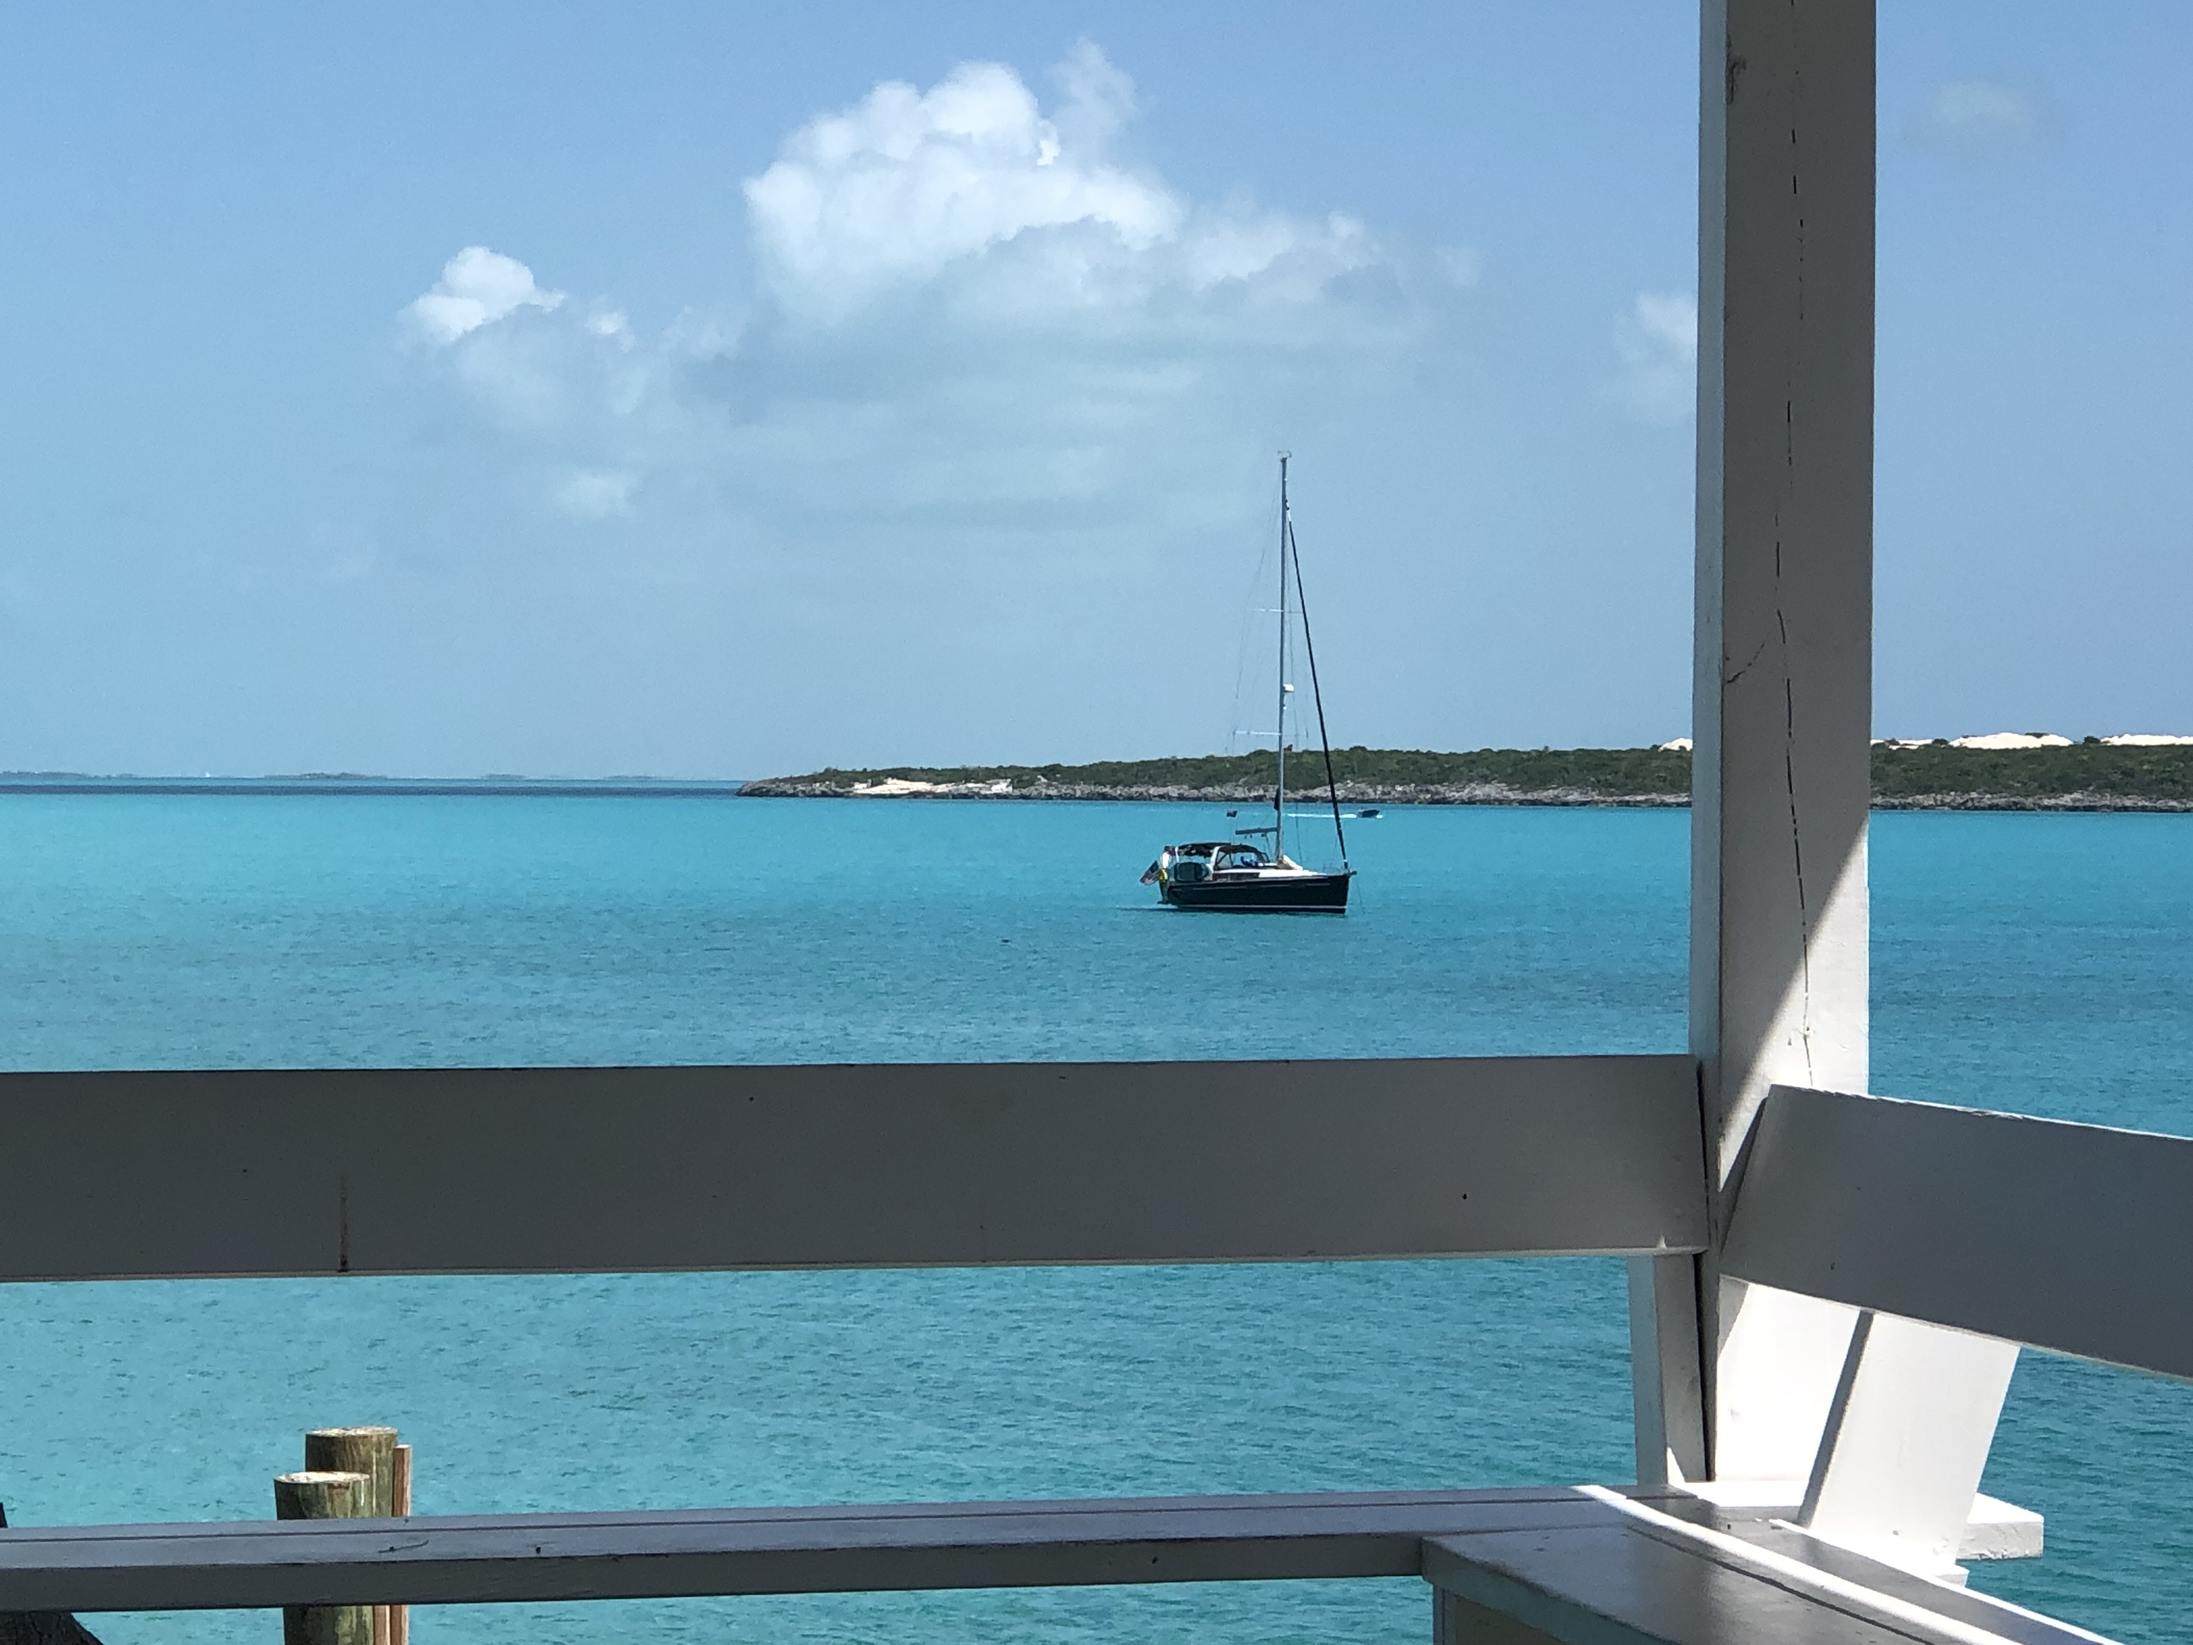
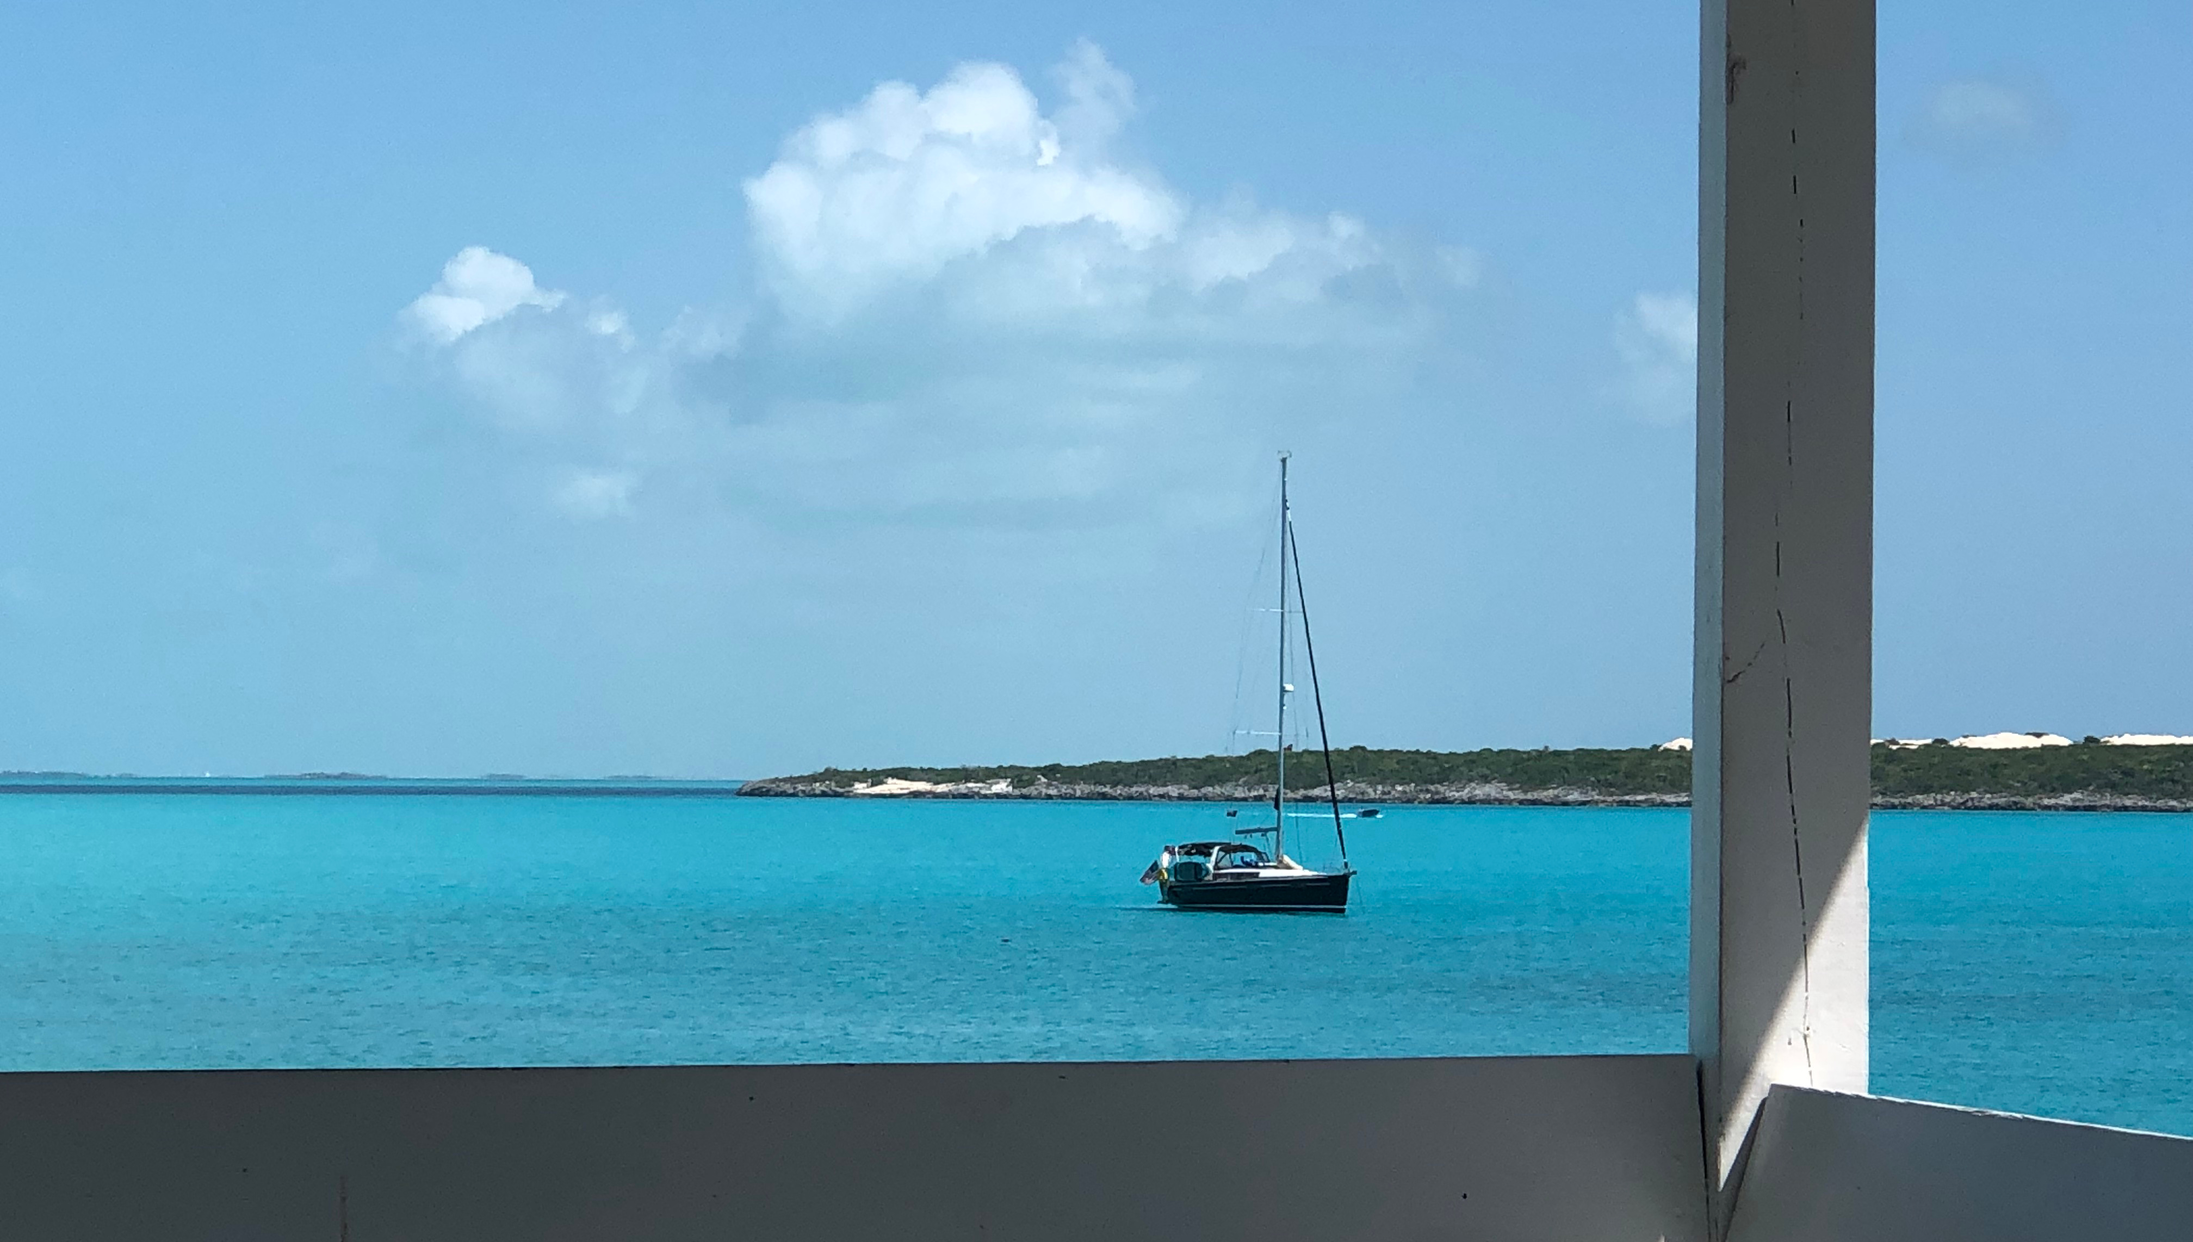
resize cover photos

diff --git a/index.html b/index.html
@@ -6,6 +6,54 @@
 		<link rel="stylesheet" type="text/css" href="css/style.css">
 		<link href='https://fonts.googleapis.com/css?family=Merienda' rel='stylesheet'>
 		<link href="https://cdn.rawgit.com/michalsnik/aos/2.1.1/dist/aos.css" rel="stylesheet">
+		<link href="https://cdnjs.cloudflare.com/ajax/libs/flexslider/2.5.0/flexslider.min.css" rel="stylesheet">
+        <link href="css/popup-slider.css" rel="stylesheet">		
+		
+		<script src="js/jquery-3.3.1.min.js"></script>
+		<script src="https://cdnjs.cloudflare.com/ajax/libs/popper.js/1.12.9/umd/popper.min.js" integrity="sha384-ApNbgh9B+Y1QKtv3Rn7W3mgPxhU9K/ScQsAP7hUibX39j7fakFPskvXusvfa0b4Q" crossorigin="anonymous"></script>
+		<script src="https://maxcdn.bootstrapcdn.com/bootstrap/4.0.0/js/bootstrap.min.js" integrity="sha384-JZR6Spejh4U02d8jOt6vLEHfe/JQGiRRSQQxSfFWpi1MquVdAyjUar5+76PVCmYl" crossorigin="anonymous"></script>
+		<script defer src="https://use.fontawesome.com/releases/v5.0.6/js/all.js"></script>
+		<script type="text/javascript" src="js/smooth-scroll.js"></script>
+		<script src="https://cdn.rawgit.com/michalsnik/aos/2.1.1/dist/aos.js"></script>
+		<script type="text/javascript" src="js/image-effect.js"></script>
+        <script language="javascript" type="text/javascript" src="./js/excanvas.js"></script>
+        <script language="javascript" type="text/javascript" src="./js/lightview.js"></script>
+        <script language="javascript" type="text/javascript" src="./js/spinners.min.js"></script>
+        <style>
+            .lightview {
+                margin:12px;
+                display:inline-block;
+                vertical-align:middle;
+            }
+        </style>
+        
+        <script>
+        
+        $( document ).ready(function() {
+          $('.btn-slider').on('click', function() {
+            $('.sliderPop').show();
+            $('.ct-sliderPop-container').addClass('open');
+            $('.sliderPop').addClass('flexslider');
+            $('.sliderPop .ct-sliderPop-container').addClass('slides');
+
+            $('.sliderPop').flexslider({
+            selector: '.ct-sliderPop-container > .ct-sliderPop',
+            slideshow: false,
+            controlNav: false,
+            controlsContainer: '.ct-sliderPop-container'
+            });
+          });
+
+          $('.ct-sliderPop-close').on('click', function() {
+            $('.sliderPop').hide();
+            $('.ct-sliderPop-container').removeClass('open');
+            $('.sliderPop').removeClass('flexslider');
+            $('.sliderPop .ct-sliderPop-container').removeClass('slides');
+          });
+        });
+        
+        </script>
+
 
     	<title>For Sale: Beneteau Oceanis 41</title>
     	<link rel="icon" href="images/logo.png">
@@ -217,142 +265,16 @@
   		
 
 
-
-<!--
-			<div class="row" id="Menu">
-				<div class="col navMenu">
-	     		 	<h2 class="text-center" >~ Menu ~</h2>
-				</div>
-			</div>
-			<div class="row bg-light">
-				<div class="col-md-4" data-aos="slide-up">
-					<div class="card view zoom">
-  						<img class="card-img-top img-fluid " src="images/meat-menu.jpg">
-					  	<div class="card-body">
-					  		<h5 class="card-title">~ Meat Menu ~</h5>
-					    	<ul class="list-group list-group-flush">
-							    <li class="list-group-item">Bocconcini di carne in nido di sfoglia</li>
-							    <li class="list-group-item">Bruschette con maiale al curry</li>
-							 	<li class="list-group-item">Uova al prosciutto</li>
-							 	<li class="list-group-item">Vitello tonnato</li>
-							 	<li class="list-group-item">Fesa di tacchino marinata con olive</li>
-							</ul>
-					  	</div>
-					</div>
-				</div>
-				<div class="col-md-4" data-aos="slide-up">
-					<div class="card">
-  						<img class="card-img-top img-fluid " src="images/fish-menu.jpg">
-					  	<div class="card-body">
-					  		<h5 class="card-title">~ Fish Menu ~</h5>
-					    	<ul class="list-group list-group-flush">
-							    <li class="list-group-item">Carpaccio di polpo</li>
-							    <li class="list-group-item">Cozze al verde</li>
-							 	<li class="list-group-item">Cocktail di gamberi</li>
-							 	<li class="list-group-item">Risotto alla crema di scampi</li>
-							 	<li class="list-group-item">Ravioli di pesce con crema di scampi</li>
-							</ul>
-					  	</div>
-					</div>
-				</div>
-				<div class="col-md-4" data-aos="slide-up">
-					<div class="card">
-  						<img class="card-img-top img-fluid" src="images/menu-vegetarian.jpg">
-					  	<div class="card-body">
-					  		<h5 class="card-title">~ Vegetarian Menu ~</h5>
-					    	<ul class="list-group list-group-flush">
-							    <li class="list-group-item">Parmigiana di melanzane</li>
-							    <li class="list-group-item">Strudel con ricotta e spinaci</li>
-							 	<li class="list-group-item">Polpette di spinaci e ricotta</li>
-							 	<li class="list-group-item">Frittata di patate al forno</li>
-							 	<li class="list-group-item">Spaghetti con le polpettine vegetariane</li>
-							</ul>
-					  	</div>
-					</div>
-				</div>
-			</div>
--->
-			<!--- End of Menu -->
-			<!--- Start of Reservation-->
-
-<!--
-			<div class="row" id="Reservation">
-				<div class="col navMenu">
-	     		 	<h2 class="text-center">~ Reservation ~</h2>
-				</div>
-			</div>
-			<div class="row">
-				<div class=" col-lg-12 reserve-container" data-aos="fade-up">
-					<img class="img-fluid image-reserve" src="images/reserve.jpg">
-					<div class="reserve-text col-lg-12 ">
-						<h1 class="text-center">Timetables</h1>
-						<div class="row">
-							<div class="col-6">
-							   	<h2 class="text-center">Lunch</h2>
-							    <h5 class="text-center">12:00 - 15:00</h5>
-							</div>
-							<div class="col-6">
-							    <h2 class="text-center">Dinner</h2>
-							    <h5 class="text-center">19:30 - 23:30</h5>
-							</div>
-						</div>
-					</div>
-				</div>
-			</div>
-			<br>
-			<div class="row bg-light">
-				<div class="col">
-					<form>
-						<div class="form-row">
-						  	<div class="form-group col-6">
-						  		<h3>Reserve</h3>
-						  		<label for="inputDate"> Date</label>
-						  		<input type="date" class="form-control" id="inputDate" placeholder="Data gg/mm/aaaa">
-						  	</div>
-						  	<div class="form-group col-6">
-						  		<h3>Details</h3>
-						  		<label for="inputName"> Name</label>
-						  		<input type="text" class="form-control" id="inputName" placeholder="Name">
-						  	</div>
-						  	<div class="form-group col-6">
-						  		<label for="inputTime"> Timetables</label>
-						  		<input type="time" class="form-control" id="inputTime" placeholder="Timetables">
-						  	</div>
-						  	<div class="form-group col-6">
-						  		<label for="inputEmail"> Email</label>
-						  		<input type="email" class="form-control" id="inputEmail" placeholder="Email">
-						  	</div>
-						  	<div class="form-group col-6">
-						  		<label for="inputNumber"> Number of Guests</label>
-						  		<input type="number" class="form-control" id="inputNumber" placeholder="Number of Guests">
-						  	</div>
-						  	<div class="form-group col-6">
-						  		<label for="inputCel"> Phone</label>
-						  		<input type="tel" class="form-control" id="inputCel" placeholder="Phone">
-						  	</div>
-  							<div class="form-group col-12">
-  								<label for="inputComment"> Further requests</label>
-								<textarea class="form-control" rows="4" id="inputComment" placeholder="Further requests"></textarea>
-							</div>
-					 	</div>
-						<div class="row">
-					  		<div class="col-md-4 col-md-offset-4">
-					  			<button type="submit" class="btn btn-secondary btn-block">Reserve</button>
-					  		</div>
-					  	</div>
-					</form>
-				</div>
-			</div>
-			
--->
 			<!--- End of Reserve -->
 			<!--- Start of Our Location -->
 			<div class="row" id="MorePhotos">
 				<div class="col navMenu">
 					<h2 class="text-center">~ More Photos ~</h2>
+				
+				
 				</div>
 			</div>
-			
+			    
 			<div class="row" id="Contact">
 				<div class="col navMenu">
 					<h2 class="text-center">~ Contact Us ~</h2>
@@ -370,14 +292,6 @@
 				</div>
 			</div>
 		</footer>
-		<script src="js/jquery-3.3.1.min.js"></script>
-		<script src="https://cdnjs.cloudflare.com/ajax/libs/popper.js/1.12.9/umd/popper.min.js" integrity="sha384-ApNbgh9B+Y1QKtv3Rn7W3mgPxhU9K/ScQsAP7hUibX39j7fakFPskvXusvfa0b4Q" crossorigin="anonymous"></script>
-		<script src="https://maxcdn.bootstrapcdn.com/bootstrap/4.0.0/js/bootstrap.min.js" integrity="sha384-JZR6Spejh4U02d8jOt6vLEHfe/JQGiRRSQQxSfFWpi1MquVdAyjUar5+76PVCmYl" crossorigin="anonymous"></script>
-		<script defer src="https://use.fontawesome.com/releases/v5.0.6/js/all.js"></script>
-		<script type="text/javascript" src="js/map.js"></script>
-		<script type="text/javascript" src="js/smooth-scroll.js"></script>
-		<script src="https://cdn.rawgit.com/michalsnik/aos/2.1.1/dist/aos.js"></script>
-		<script type="text/javascript" src="js/image-effect.js"></script>
-	    </script>
+
   	</body>
 </html>
